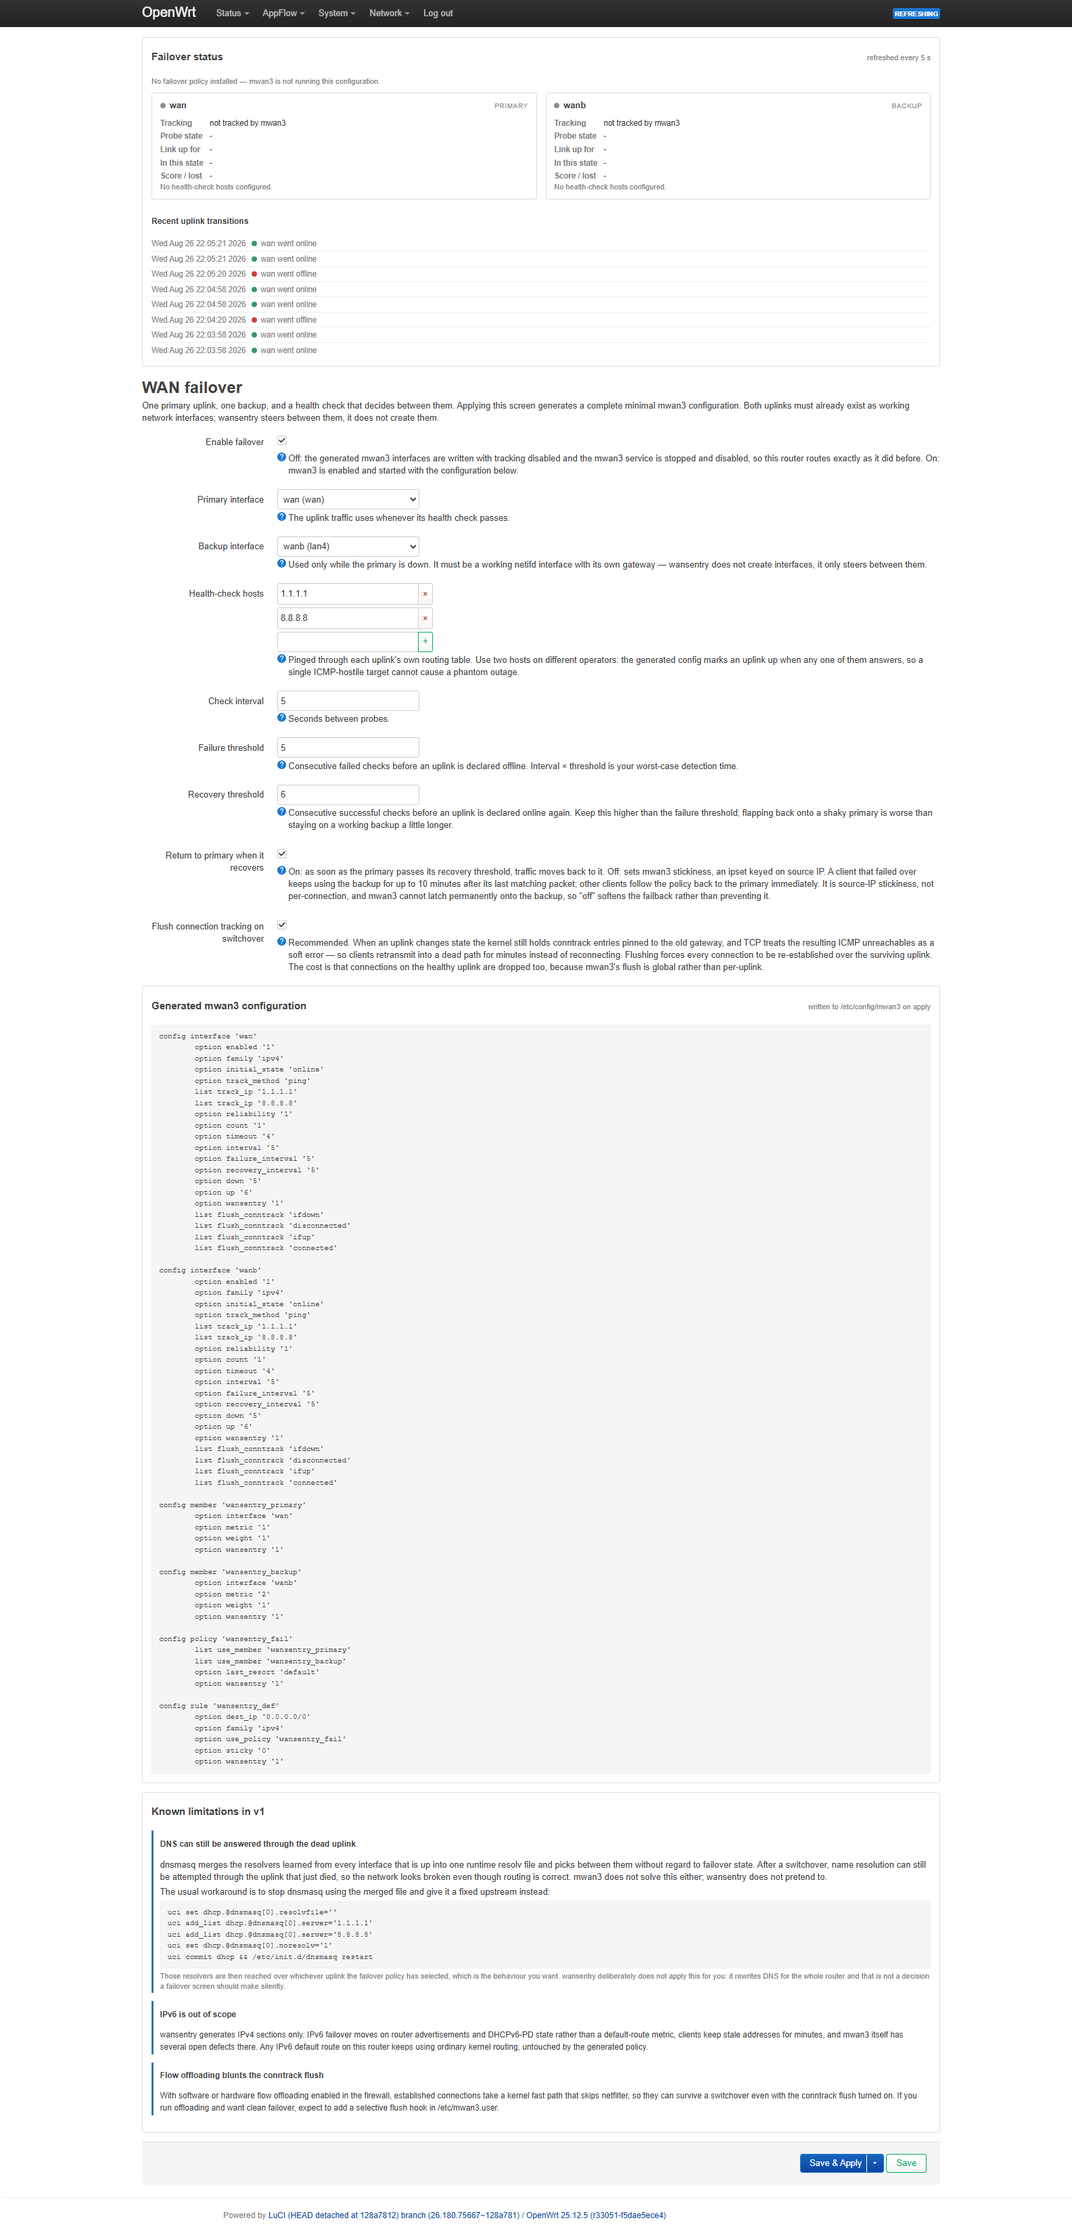
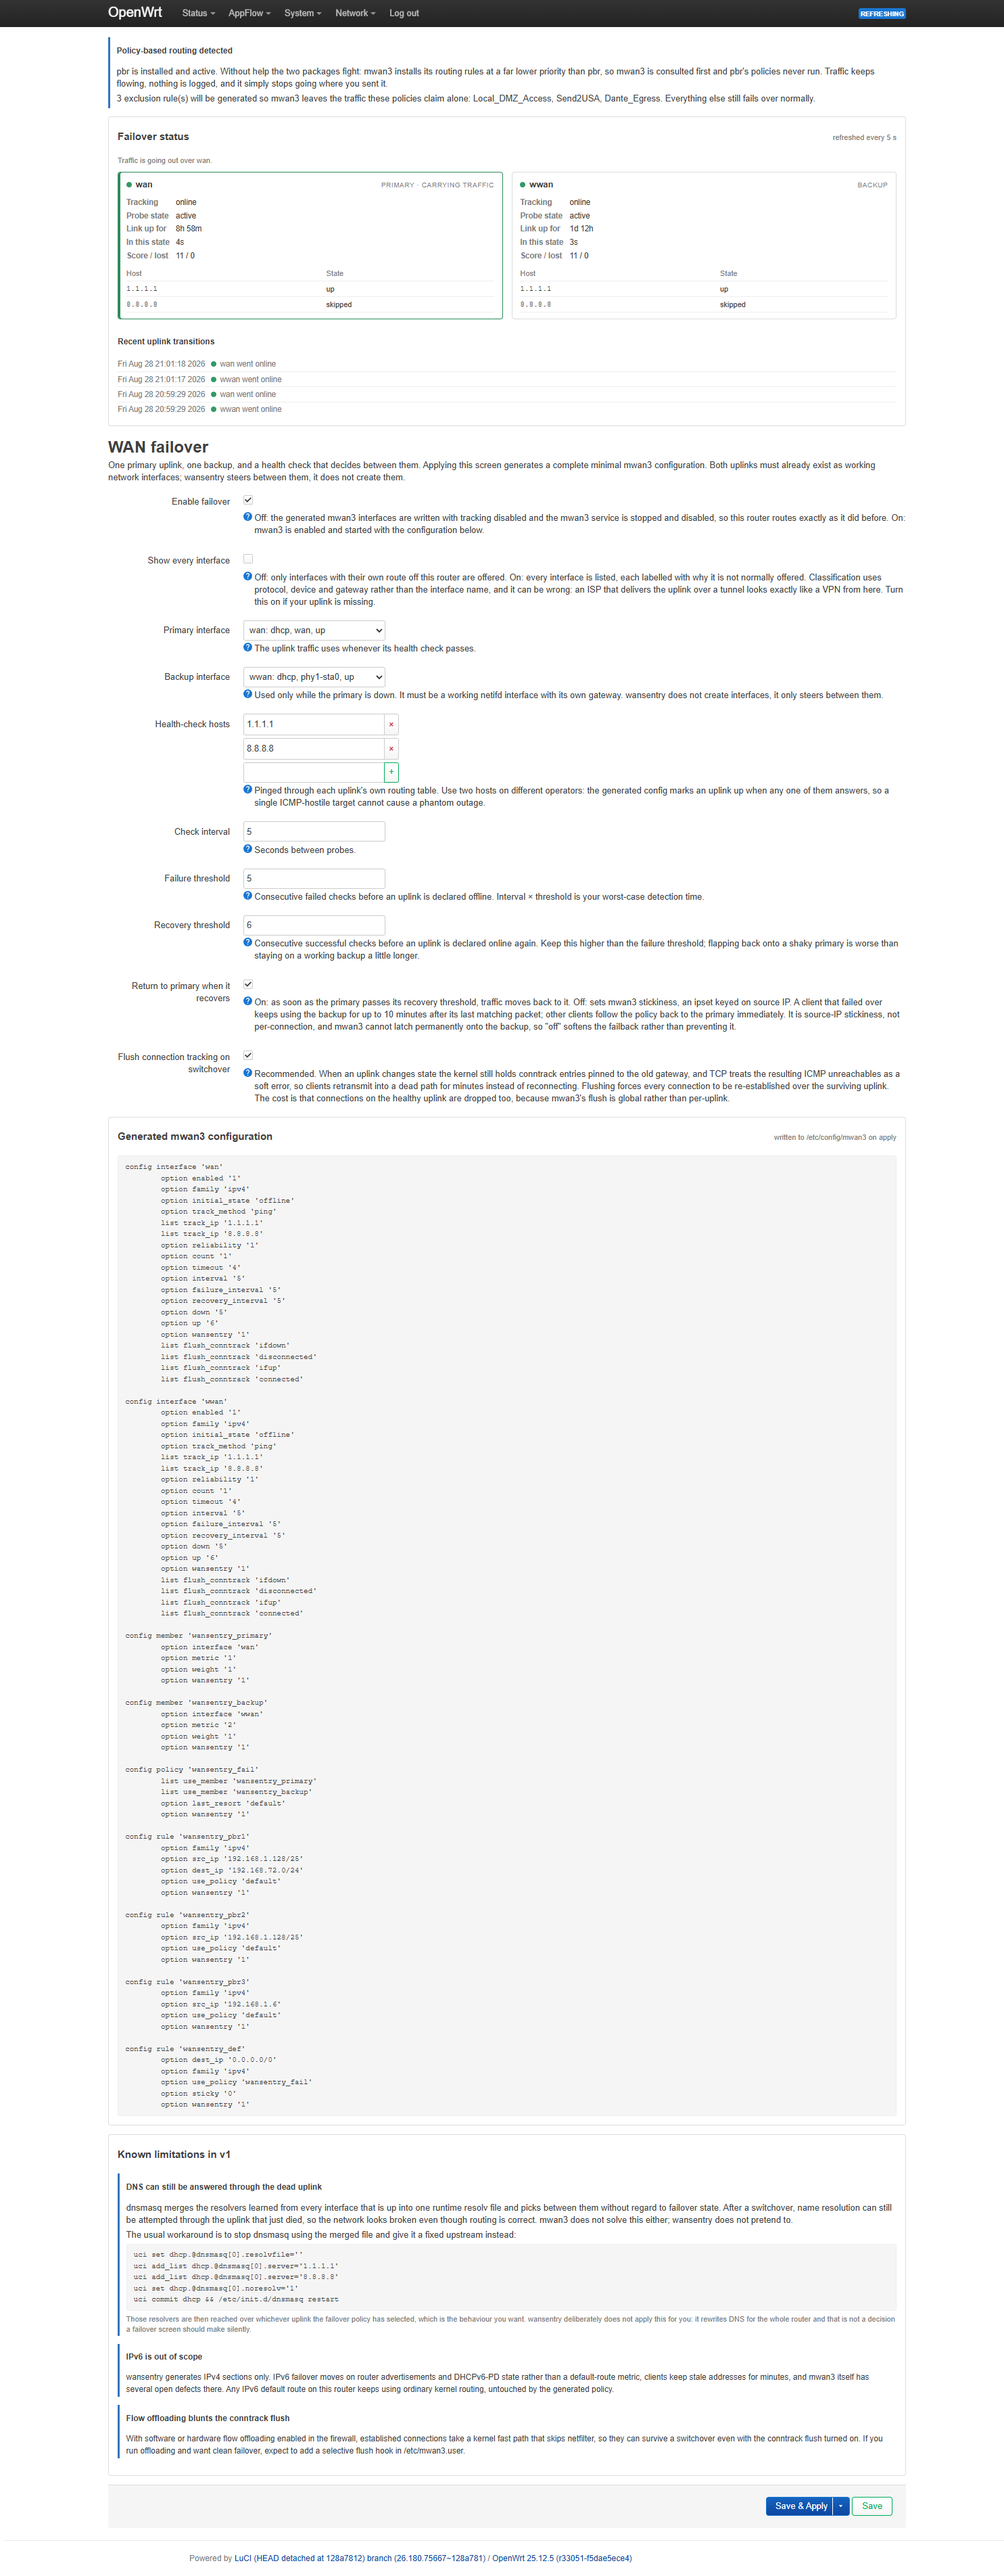
docs: retake screenshots at 1.1.0, drop one that contradicted it
pbr-coexistence.png showed a generated config carrying
initial_state 'online'. That is the exact default 1.1.0 changed, so the
picture argued against the release it shipped in, and nothing referenced
the file. Deleted rather than replaced: overview.png now carries the pbr
banner and the generated rules together.

overview.png and foreign-config.png retaken on the bench at 1.1.0 with
pbr installed and three real policies present. The read-only screen was
checked by planting three foreign mwan3 sections, confirming the banner
named all three and every control was disabled, then restoring.

Spelling made consistently American across README and the design notes.

Changed region(s): [[0.0929, 0.0, 0.8983, 0.9985]]

diff --git a/docs/DESIGN.md b/docs/DESIGN.md
@@ -377,7 +377,7 @@ config is genuinely empty and when it cannot be parsed at all, and the gate is
 arithmetic over that output: `owned=0 managed=0 foreign=0` takes the
 stop-and-disable branch. Measured on OpenWrt 25.12.5:
 
-| state | `uci -q show mwan3` | rc | old behaviour |
+| state | `uci -q show mwan3` | rc | old behavior |
 |---|---|---|---|
 | valid, populated | 22 lines | 0 | correct |
 | valid, empty | 0 lines | 0 | stop + disable (intended) |
@@ -438,7 +438,7 @@ a rendering decision, and until 2026-08-25 `handleSave()` itself consulted only
 `foreign.length`. The promise is now enforced in the save path, where it
 belongs, rather than depending on a variable in another function. Raised by a
 carrier juror, which was also careful to flag that it could not tell whether the
-button was reachable under `m.readonly`; the fix is defence in depth either way.
+button was reachable under `m.readonly`; the fix is defense in depth either way.
 
 **Arming is decided by whether a policy is installed, not by whether traffic is
 flowing.** `mwan3_armed()` exists because `/etc/init.d/mwan3 running` reports
@@ -558,7 +558,7 @@ next person does not have to rediscover the thread.
     root/usr/share/luci/menu.d/…json            Network -> WAN Failover
     root/usr/share/rpcd/acl.d/…json             ACL
     htdocs/…/view/wansentry/{common,generator,overview}.js
-    po/templates/wansentry.pot                  string catalogue, GENERATED from source
+    po/templates/wansentry.pot                  string catalog, GENERATED from source
     tests/ownership-suite.sh                    29 checks, the ownership rule on hardware
     tests/hardware-suite.sh                     22 checks, gate/arming/restart/security
     tests/generator-suite.js                    31 checks, the same rule in the browser
@@ -714,7 +714,7 @@ config rule 'wansentry_pbr1'
 which matches none of mwan3's own ip rules, so evaluation falls through to pbr's
 at 29996 and the policy survives.
 
-The division of labour this produces is the correct one, not a compromise:
+The division of labor this produces is the correct one, not a compromise:
 
 - **pbr decides which traffic enters the tunnel.**
 - **mwan3 decides which uplink the tunnel's own packets ride on.**
@@ -744,7 +744,7 @@ and it is the most important check in that file.
 
 ### 11.4 The VPN restart that turned out to be unnecessary
 
-The intended centrepiece of this work was a nominated tunnel-restart hook. The
+The intended centerpiece of this work was a nominated tunnel-restart hook. The
 reasoning was sound and the conclusion was wrong.
 
 The server pushes `Timers: ping 10, ping-restart 120`, and `route_nopull` does
@@ -815,8 +815,8 @@ IPv6-only companions. On a router with a VPN and a few bridges that means `lan`
 and `vpnusa` are offered as candidates for "primary uplink", neither of which
 can work, with nothing on screen saying so.
 
-The instinct behind the old behaviour was right and its conclusion was not.
-An LTE stick, a tethered phone and a neighbour's wifi joined as a station are
+The instinct behind the old behavior was right and its conclusion was not.
+An LTE stick, a tethered phone and a neighbor's wifi joined as a station are
 all legitimate backups and none of them looks like a "wan", so guessing by NAME
 would indeed be wrong. But refusing to guess by name does not mean offering
 everything; it means classifying by evidence. Protocol, device and gateway give

diff --git a/README.md b/README.md
@@ -61,7 +61,7 @@ rather than take it on trust.
 
 The conclusion wansentry draws from that history is that the gap worth filling
 is a simpler *configuration* path onto mwan3, not another failover mechanism.
-That is a judgement, not a measurement, and it is the premise the whole
+That is a judgment, not a measurement, and it is the premise the whole
 package rests on.
 
 ## How it compares
@@ -162,7 +162,7 @@ mwan3 stands aside for that traffic and pbr's decision survives. Everything
 outside your pbr ranges still fails over normally. The settings screen tells you
 which policies it protected, and names any it could not.
 
-The division of labour that results is the right one: **pbr decides what enters
+The division of labor that results is the right one: **pbr decides what enters
 the tunnel, wansentry decides which uplink the tunnel rides on.**
 
 **Your VPN probably does not need restarting.** Measured on OpenVPN 2.7 against
@@ -298,7 +298,7 @@ Documented up front rather than left to be discovered.
   default, so expect roughly 15 s before traffic moves, and roughly 30 s before
   it moves back (`interval x recovery threshold`). Measured on hardware at 13-14 s
   and 31 s. Shortening the interval detects faster and flaps more; the defaults
-  favour not flapping.
+  favor not flapping.
 - **Existing connections are dropped on a switchover** when conntrack flushing
   is on, which is the default. That is the point: entries pinned to the dead
   uplink would otherwise keep steering traffic down it. But mwan3's flush is

diff --git a/docs/VPN-AND-POLICY-ROUTING.md b/docs/VPN-AND-POLICY-ROUTING.md
@@ -281,7 +281,7 @@ unreachable default table pbr_wanb
 ```
 
 So a policy whose interface is down **refuses** traffic instead of quietly
-rerouting it. That looks harsh and it is the safer behaviour. Without it, that
+rerouting it. That looks harsh and it is the safer behavior. Without it, that
 traffic falls through to the main table and leaves by whatever uplink is up,
 which for a policy pinned to a local-only destination means chasing an RFC1918
 address out over a cellular link.
